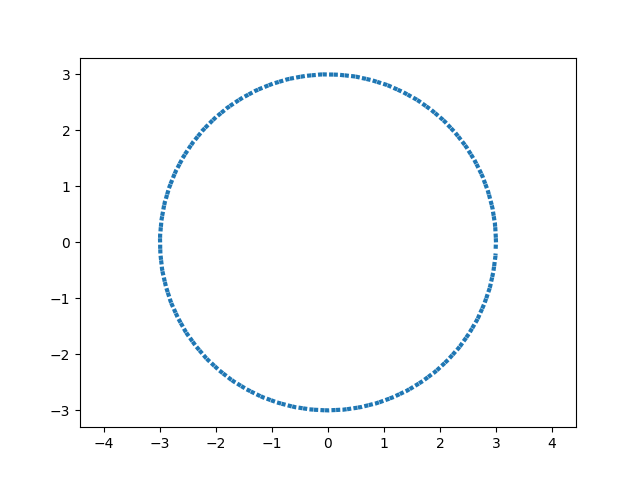
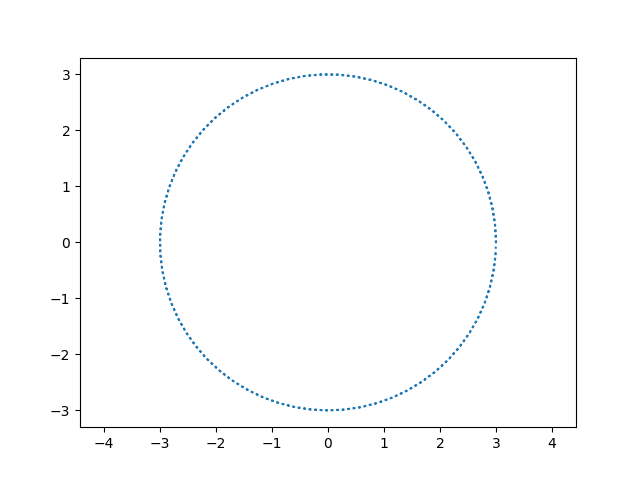
..

diff --git a/less_6_parametric.py b/less_6_parametric.py
@@ -7,6 +7,6 @@ R = 3
 x = R * np.cos(alpha)
 y = R * np.sin(alpha)
 
-plt.plot(x, y, ls='dotted', lw=3)
+plt.plot(x, y, ls='dotted', lw=2)
 plt.axis('equal')
 plt.savefig('pic_1.png')
